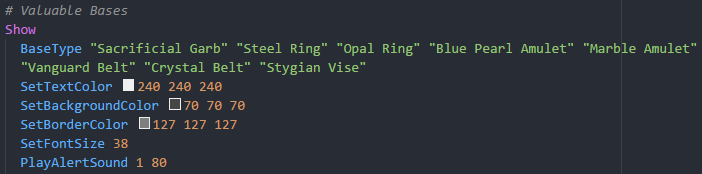
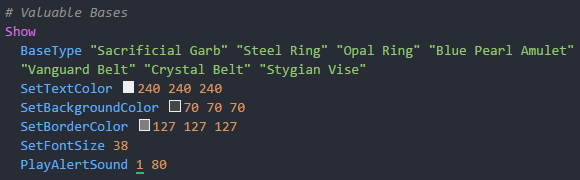
Only slice once. Update the preview. Use mm over pixel for CSS.

diff --git a/server/hover-provider.ts b/server/hover-provider.ts
@@ -50,10 +50,12 @@ function getBaseTypeHover(position: Position, text: string, index: number): Hove
   const valueRange = getStringRangeAtPosition(position, text, valueIndex);
   let baseType = text.slice(valueRange.start.character, valueRange.end.character);
 
-  if (baseType[0] === '"') baseType = baseType.substr(1);
-  if (baseType[baseType.length - 1] === '"') {
-    baseType = baseType.slice(0, baseType.length - 1);
-  }
+  // The range will include quotation marks, if there are any. We need to get rid
+  // of them, as we store items without them in the data files.
+  const length = baseType.length;
+  const startIndex = baseType[0] === `"` ? 1 : 0;
+  const endIndex = baseType[length - 1] === `"` ? length - 1 : length;
+  baseType = baseType.slice(startIndex, endIndex);
 
   // We're essentially buffering directly into a markdown string.
   let output: string = "";

diff --git a/client/main.ts b/client/main.ts
@@ -36,7 +36,7 @@ interface PlaySoundOptions {
 let client: LanguageClient;
 let activateEditorURI: string | undefined;
 const soundDecorationType = window.createTextEditorDecorationType({
-  borderWidth: "0px 0px 1px",
+  borderWidth: "0px 0px 0.6mm",
   borderStyle: "solid",
   borderColor: "MediumSeaGreen"
 });

diff --git a/CHANGELOG.md b/CHANGELOG.md
@@ -2,7 +2,7 @@
 
 The history of changes to the extension.
 
-### Version 1.2.0 (February 20th, 2018)
+### Version 1.2.0 (February 19th, 2018)
 - Hovering over item bases within the editor will now show both the item class and the unique items specific to that base.
 - Added support for playing sound on MacOS through the system binary `afplay`.
 - Added support for enabling sound on Linux through configuration variables. See the details section for more information.
